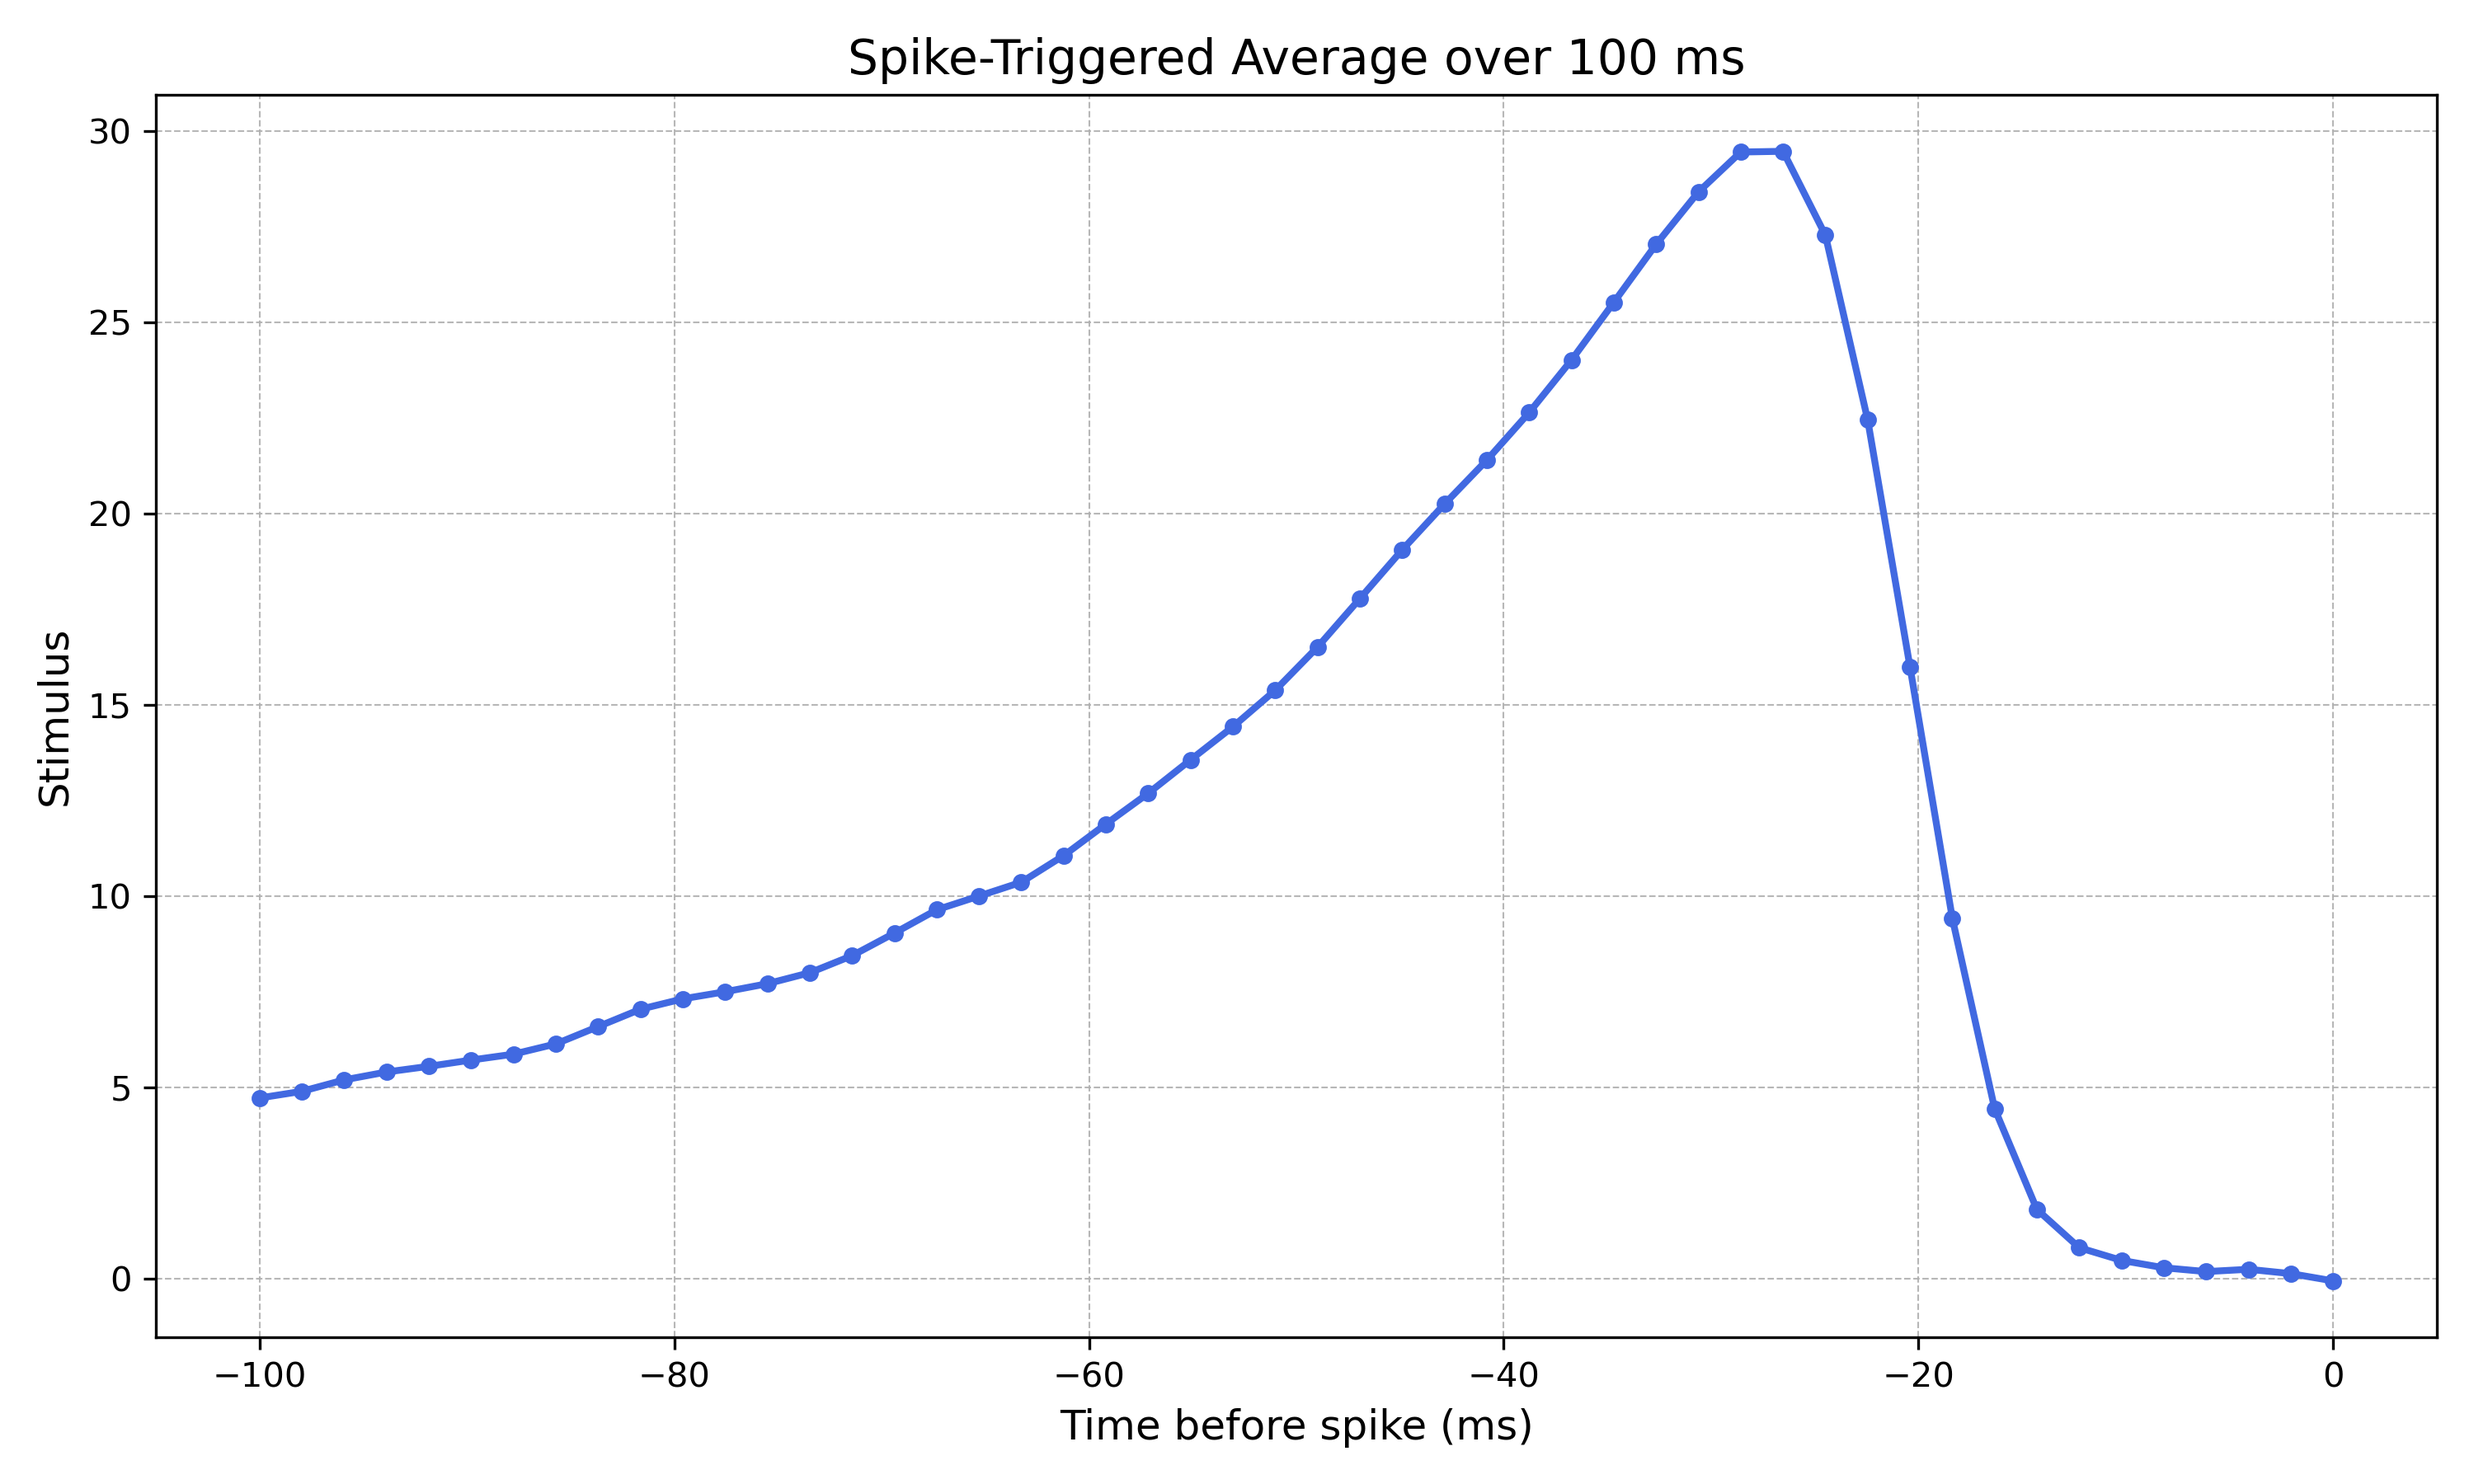
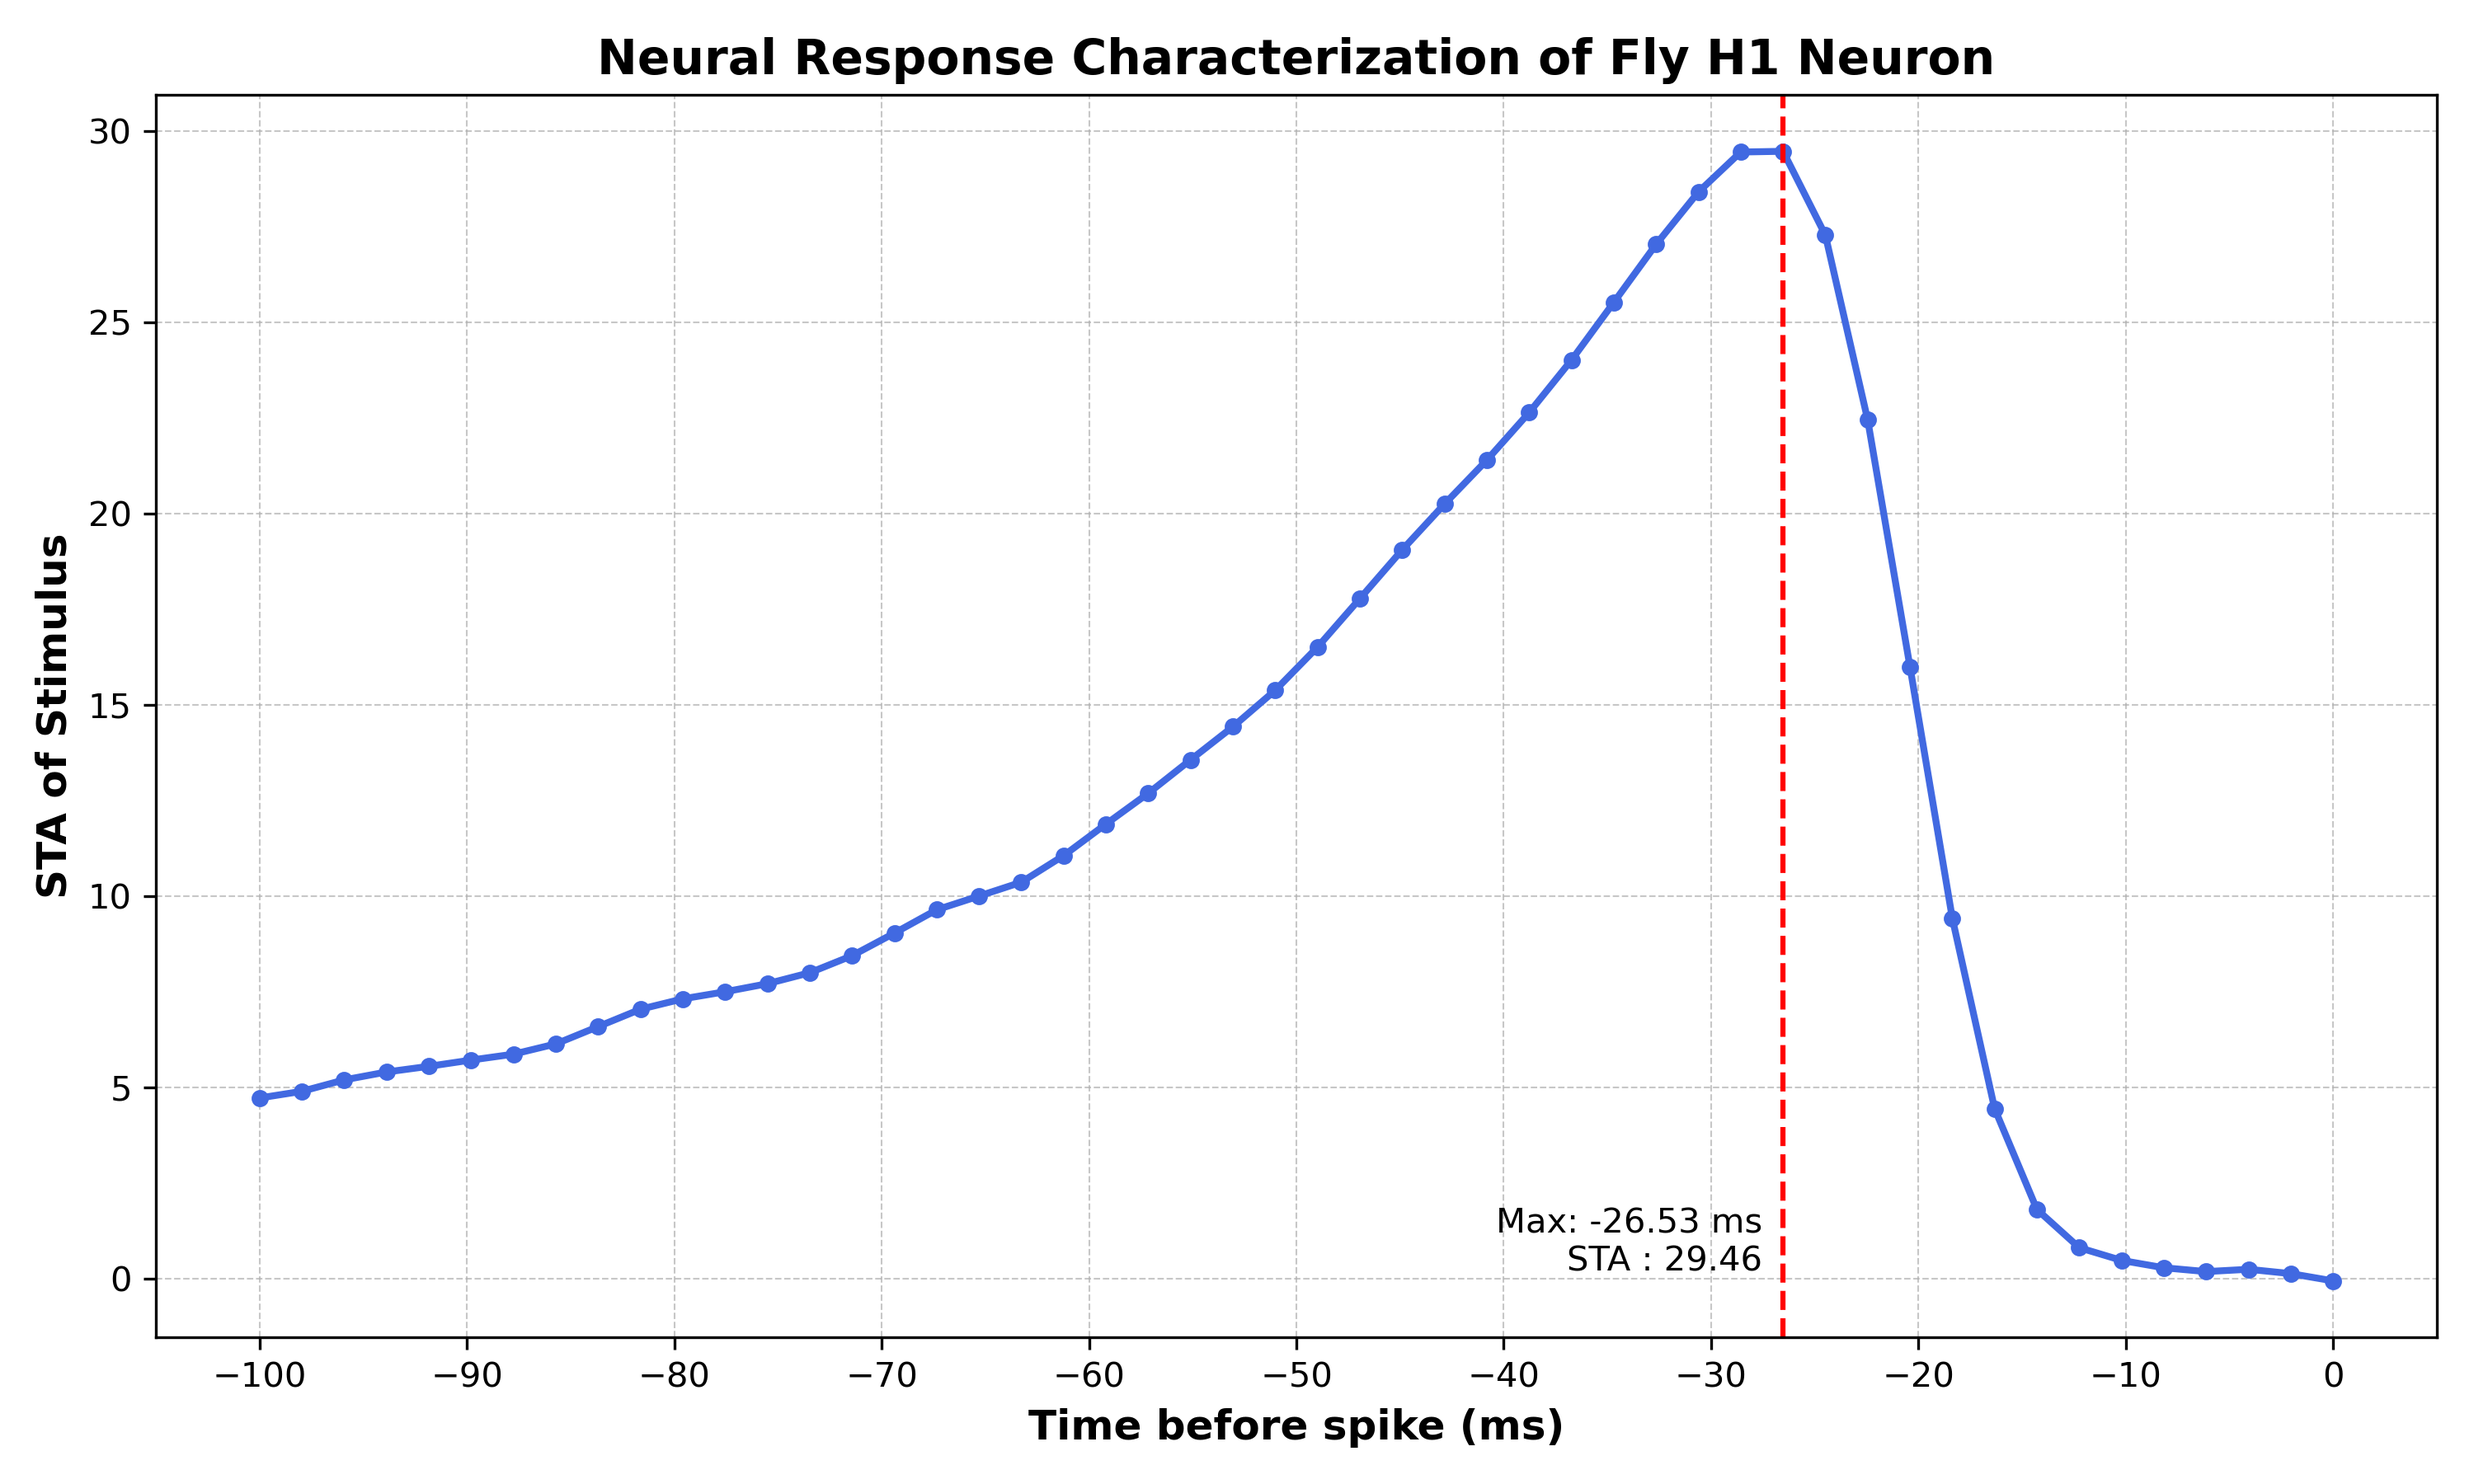
Update

diff --git a/q5.py b/q5.py
@@ -7,34 +7,31 @@ def find_spike_pairs(spike_times, interval, adjacent_only):
     if adjacent_only:
         for i in range(len(spike_times) - 1):
             if (spike_times[i + 1] - spike_times[i] == interval):
-                # pairs = np.append(pairs, i)
                 pairs.append(i)
     else:
         for i in range(len(spike_times) - 1):
-            for j in range(interval//2+1):
+            for j in range(len(spike_times) - i - 1):
                 if (spike_times[i+j] - spike_times[i] == interval):
-                    # pairs = np.append(pairs, i)
                     pairs.append(i)
                     break
-                if (i+j >= len(spike_times) - 1):
+                if (i+j >= len(spike_times) or spike_times[i+j] - spike_times[i] > interval):
                     break
     return pairs
 
-def calculate_triggered_stimulus(stimulus, spike_times, intervals, sampling_rate=500, adjacent_only=False):
+def calculate_triggered_stimulus(stimulus, spike_times, intervals, adjacent_only=False):
     triggered_stimuli = {}
     for interval in intervals:
         segments = []
+        segment_length = 100
         pairs = find_spike_pairs(spike_times, interval, adjacent_only)
         for pair in pairs:
-            index = spike_times[pair] // 2
-
-            if index >= interval * sampling_rate // 1000:
-                segment = stimulus[index - (interval * sampling_rate // 1000):index]
+            index = spike_times[pair] - segment_length
+            index = index // 2
+            if index >= 0 and index < len(stimulus):
+                segment = stimulus[index:spike_times[pair]//2]
                 segments.append(segment)
-                print(segment)
 
         triggered_stimuli[interval] = np.mean(segments, axis=0) if segments else None
-        break
 
     return triggered_stimuli
 
@@ -45,16 +42,28 @@ def question5():
     # Define intervals in ms
     intervals = [2, 10, 20, 50]
 
-    # Calculate the average stimulus for each interval (not necessarily adjacent spikes)
+    # Calculate the average stimulus for each interval (not necessarily adjacent spike_times)
     triggered_stimuli = calculate_triggered_stimulus(stimulus, spike_times, intervals)
 
-    # Repeat for adjacent spikes only
+    # Repeat for adjacent spike_times only
     triggered_stimuli_adjacent = calculate_triggered_stimulus(stimulus, spike_times, intervals, adjacent_only=True)
 
     # Display the results
-    print("Calculated average stimmulus for each interval (not necessarily adjacent spikes):\n", triggered_stimuli)
+    print("Calculated average stimmulus for each interval (not necessarily adjacent spike_times):\n", triggered_stimuli)
     print("\n")
     print("Calculated average stimmulus for each interval\n", triggered_stimuli_adjacent)
+
+    # Plotting
+    plt.figure(figsize=(10, 6))
+    for interval in intervals:
+        plt.plot(np.linspace(-100, 0), triggered_stimuli[interval], label=f'{interval}ms')
+    plt.legend()
+    plt.xlabel('Time before spike (ms)', fontsize=12, fontweight='bold')
+    plt.ylabel('Triggered Stimulus', fontsize=12, fontweight='bold')
+    plt.title('Triggered Stimulus', fontsize=14, fontweight='bold')
+    plt.tight_layout()
+    # plt.savefig('Triggered_Stimulus_plot.png', dpi=300)  # Save the figure in high-resolution
+    plt.show()
 
 if __name__ == "__main__":
     question5()

diff --git a/q4.py b/q4.py
@@ -29,50 +29,33 @@ def question4():
     time_vector = np.linspace(-window_size_ms, 0, window_size_points, endpoint=True)
 
     # Plotting
-    # plt.figure(figsize=(10, 6))
-    # plt.plot(time_vector, sta)
-    # plt.xlabel('Time before spike (ms)')
-    # plt.ylabel('Stimulus')
-    # plt.title('Spike-Triggered Average over 100 ms')
-    # plt.grid(True)
-    # plt.show()
-    # plt.figure(figsize=(12, 6))
-
-    # plt.figure(figsize=(10, 6))
-    # plt.plot(time_vector, sta, color='royalblue', linestyle='-', linewidth=2, marker='o', markersize=4)
-    # plt.xlabel('Time before spike (ms)', fontsize=12)
-    # plt.ylabel('Stimulus', fontsize=12)
-    # plt.title('Spike-Triggered Average over 100 ms', fontsize=14)
-    # plt.grid(True, linestyle='--', linewidth=0.5, alpha=0.9)
-    # plt.tight_layout()
-    # plt.savefig('STA_plot.png', dpi=300)  # Save the figure in high-resolution
-    # plt.show()
-
     plt.figure(figsize=(10, 6))
 
     # Plot the STA curve
-    plt.plot(time_vector, sta, color='royalblue', linestyle='-', linewidth=2)
+    plt.plot(time_vector, sta, color='royalblue', linestyle='-', linewidth=2, marker='o', markersize=4)
 
-    # Indicate the maximum value on the curve
+    # Find and indicate the maximum value on the curve
     max_sta = np.max(sta)
     max_time = time_vector[np.argmax(sta)]
-    plt.plot(max_time, max_sta, 'ro')  # 'ro' plots a red circle at the max point
-    plt.annotate(f'Maximum ({max_time} ms, {max_sta:.2f})', xy=(max_time, max_sta),
-                 xytext=(max_time+5, max_sta), arrowprops=dict(facecolor='black', shrink=0.05),
-                 fontsize=10, ha='center')
+    max_time_rounded = round(max_time, 2)  # Round the time to two decimal places
+    plt.axvline(x=max_time_rounded, color='red', linestyle='--')  # Vertical line for the maximum
+
+    # Annotate the maximum value on the curve
+    plt.text(max_time_rounded-1, 0, f'Max: {max_time_rounded} ms\nSTA : {max_sta:.2f}', 
+             color='black', verticalalignment='bottom', horizontalalignment='right')
 
     # Set the x-axis ticks
-    plt.xticks(np.arange(-100, 1, 20))
+    plt.xticks(np.arange(-100, 1, 10))
 
     # Enhanced text for titles and labels
     plt.xlabel('Time before spike (ms)', fontsize=12, fontweight='bold')
-    plt.ylabel('Stimulus', fontsize=12, fontweight='bold')
+    plt.ylabel('STA of Stimulus', fontsize=12, fontweight='bold')
     plt.title('Neural Response Characterization of Fly H1 Neuron', fontsize=14, fontweight='bold')
 
     # Additional styling
     plt.grid(True, linestyle='--', linewidth=0.5, alpha=0.7)
     plt.tight_layout()
-    plt.savefig('/mnt/data/Enhanced_STA_plot.png', dpi=300)  # Save the figure in high-resolution
+    plt.savefig('STA_plot.png', dpi=300)  # Save the figure in high-resolution
     plt.show()
 
 
